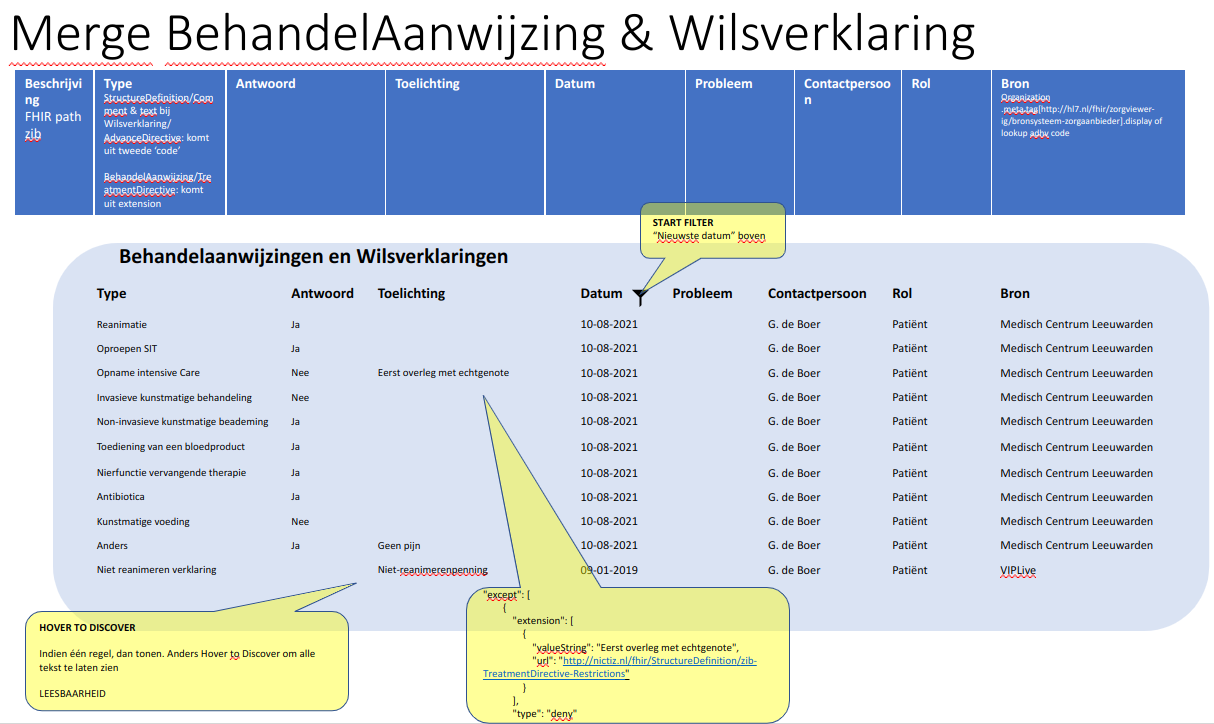
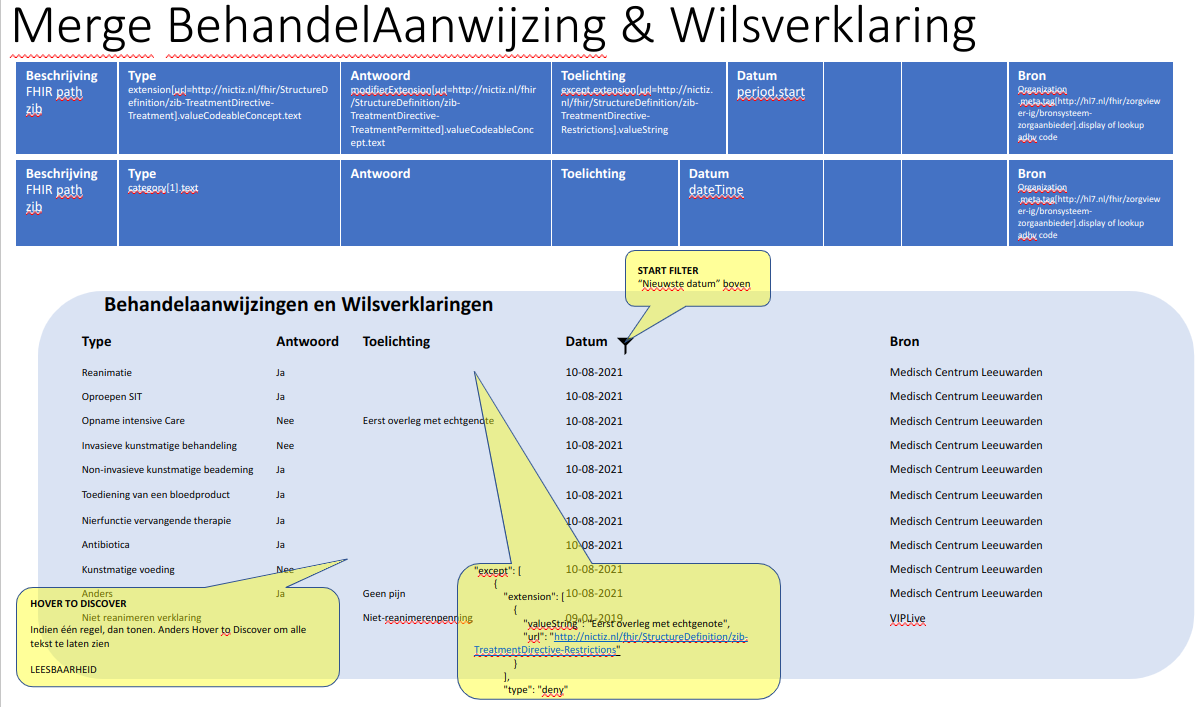
Update

diff --git a/input/pagecontent/StructureDefinition-AdvanceDirective-intro.md b/input/pagecontent/StructureDefinition-AdvanceDirective-intro.md
@@ -1,3 +1,12 @@
+### User-Interface guidance
+
+Dit figuur is opgebouwd uit grofweg 3 onderdelen:
+1. tabel met veld beschrijving, FHIR Path naar de waarde, Zib element naam en extra toelichting of regels
+1. een schets van de tabel met labels en sortering informatie
+1. in geeltjes eventuele extra toelichting of regels
+
+{% include img.html img="ui-consent.png" caption="User-Interface Consent guidance" width="100%" %}
+
 ### Request
 
 1. Opvragen (search) wilsbeschikkingen
